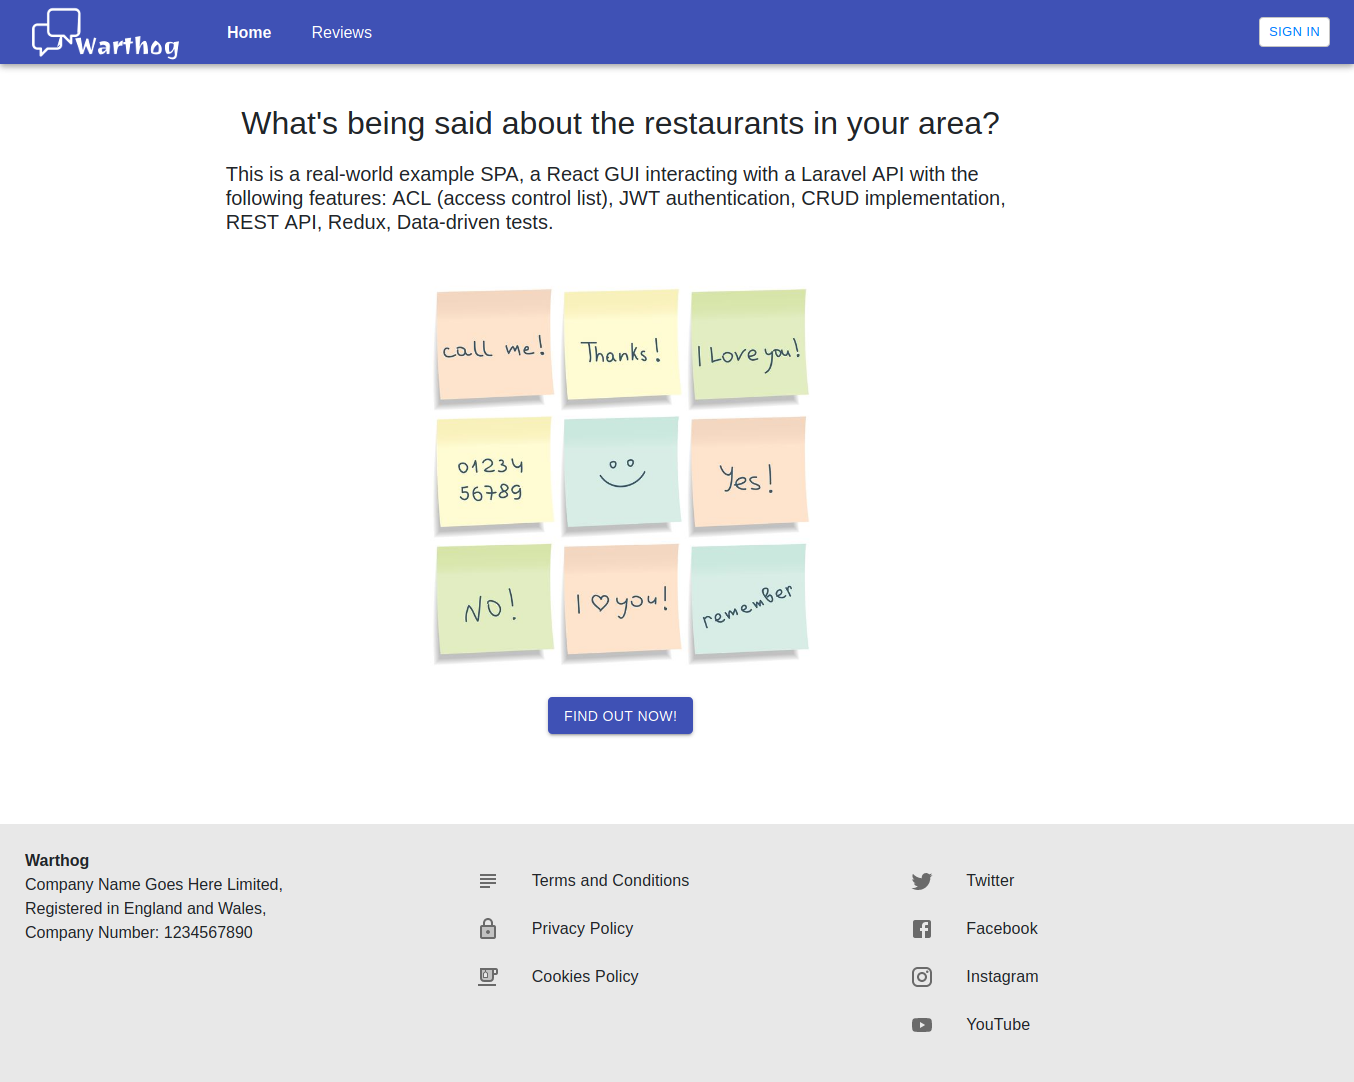
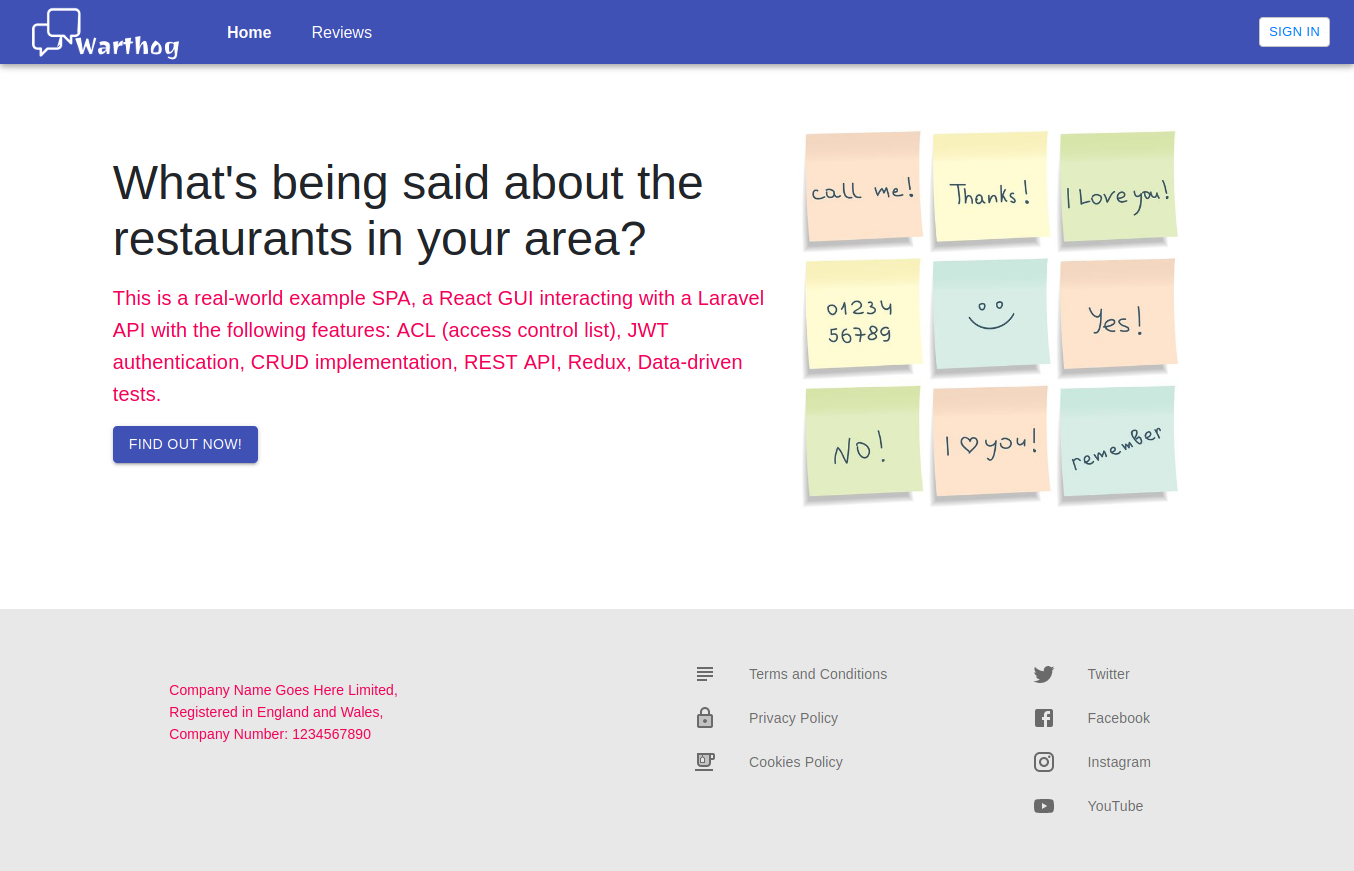
playing around with more Material UI components to design the homepage

diff --git a/resources/js/components/public/Footer.js b/resources/js/components/public/Footer.js
@@ -7,65 +7,75 @@ import LockIcon from '@material-ui/icons/LockTwoTone';
 import SubjectIcon from '@material-ui/icons/SubjectTwoTone';
 import TwitterIcon from '@material-ui/icons/Twitter';
 import YouTubeIcon from '@material-ui/icons/YouTube';
+import Typography from '@material-ui/core/Typography';
 
 function Footer() {
   return (
-    <Grid container style={{ marginTop: 90, padding: 25, backgroundColor: '#e8e8e8' }}>
-      <Grid item xs={4}>
-        <p>
-          <b>Warthog</b><br/>
-          Company Name Goes Here Limited,<br/>
-          Registered in England and Wales,<br/>
-          Company Number: 1234567890
-        </p>
+    <Grid container style={{
+        marginTop: 90,
+        paddingTop: 35,
+        paddingBottom: 35,
+        backgroundColor: '#e8e8e8'
+      }}
+    >
+      <Grid container xs={6} style={{ paddingTop: 35 }}>
+        <Grid item xs={3}></Grid>
+        <Grid item xs={6}>
+          <Typography color="secondary" variant="subtitle2">
+            Company Name Goes Here Limited,<br/>
+            Registered in England and Wales,<br/>
+            Company Number: 1234567890
+          </Typography>
+        </Grid>
+        <Grid item xs={3}></Grid>
       </Grid>
-      <Grid item xs={4}>
+      <Grid container xs={3}>
         <List component="nav" aria-label="legal">
           <ListItem button>
             <ListItemIcon>
               <SubjectIcon />
             </ListItemIcon>
-            <ListItemText primary="Terms and Conditions" />
+            <ListItemText secondary="Terms and Conditions" />
           </ListItem>
           <ListItem button>
             <ListItemIcon>
               <LockIcon />
             </ListItemIcon>
-            <ListItemText primary="Privacy Policy" />
+            <ListItemText secondary="Privacy Policy" />
           </ListItem>
           <ListItem button>
             <ListItemIcon>
               <EmojiFoodBeverage />
             </ListItemIcon>
-            <ListItemText primary="Cookies Policy" />
+            <ListItemText secondary="Cookies Policy" />
           </ListItem>
         </List>
       </Grid>
-      <Grid item xs={4}>
+      <Grid container xs={3}>
         <List component="nav" aria-label="social">
           <ListItem button>
             <ListItemIcon>
               <TwitterIcon />
             </ListItemIcon>
-            <ListItemText primary="Twitter" />
+            <ListItemText secondary="Twitter" />
           </ListItem>
           <ListItem button>
             <ListItemIcon>
               <FacebookIcon />
             </ListItemIcon>
-            <ListItemText primary="Facebook" />
+            <ListItemText secondary="Facebook" />
           </ListItem>
           <ListItem button>
             <ListItemIcon>
               <InstagramIcon />
             </ListItemIcon>
-            <ListItemText primary="Instagram" />
+            <ListItemText secondary="Instagram" />
           </ListItem>
           <ListItem button>
             <ListItemIcon>
               <YouTubeIcon />
             </ListItemIcon>
-            <ListItemText primary="YouTube" />
+            <ListItemText secondary="YouTube" />
           </ListItem>
         </List>
       </Grid>

diff --git a/resources/js/components/public/Home.js b/resources/js/components/public/Home.js
@@ -3,26 +3,34 @@ import { Grid } from '@material-ui/core'
 import { Footer } from './Footer';
 import { Link } from 'react-router-dom';
 import React from 'react';
+import Typography from '@material-ui/core/Typography'
 import stickyNotes from '../../../images/sticky-notes.jpg';
 
 function Home() {
   return (
     <Grid container style={{ marginTop: 40 }}>
-      <Grid item xs={2}></Grid>
-      <Grid container justify="center" xs={7}>
-        <h2 style={{ marginBottom: 20 }}>What's being said about the restaurants in your area?</h2>
-        <h5>
+      <Grid xs={1}></Grid>
+      <Grid xs={6} style={{ marginTop: 50, marginBottom: 20 }}>
+        <Typography variant="h3" paragraph={true}>
+          What's being said about the restaurants in your area?
+        </Typography>
+        <Typography variant="h6" color="secondary" paragraph={true}>
           This is a real-world example SPA, a React GUI interacting with a Laravel API with the following features: ACL (access control list),
           JWT authentication, CRUD implementation, REST API, Redux, Data-driven tests.
-        </h5>
-        <Grid container justify="center" style={{ margin: 20 }}>
-          <img src={stickyNotes} alt="Warthog logo" style={{ marginTop: 15, maxWidth: 400 }}/>
-        </Grid>
-        <Grid container justify="center">
-          <Button variant="contained" color="primary" component={Link} to={'/login'}>Find out now!</Button>
-        </Grid>
+        </Typography>
+        <Button
+          variant="contained"
+          color="primary"
+          component={Link}
+          to={'/login'}
+        >
+          Find out now!
+        </Button>
       </Grid>
-      <Grid item xs={2}></Grid>
+      <Grid item xs={4}>
+        <img src={stickyNotes} alt="Warthog logo" style={{ marginTop: 15, maxWidth: 400 }}/>
+      </Grid>
+      <Grid xs={1}></Grid>
       <hr />
       <Footer />
     </Grid>
